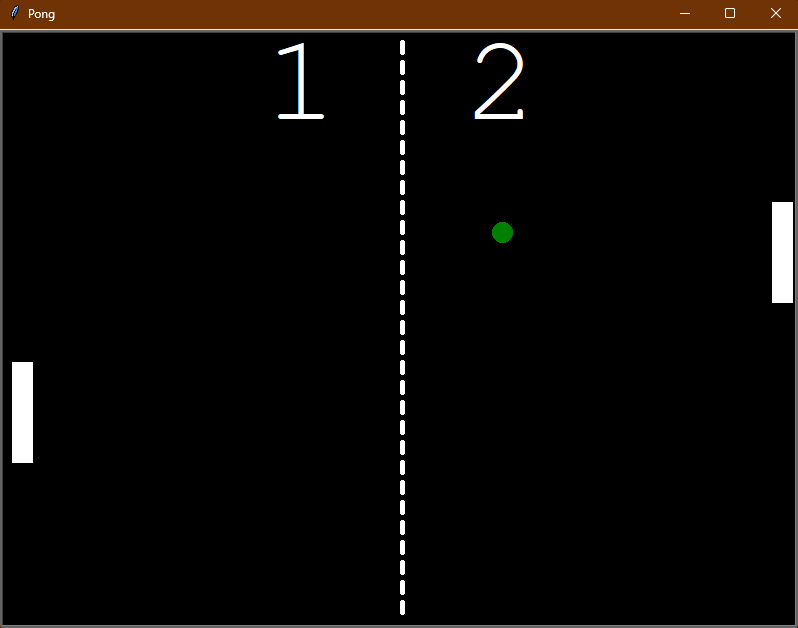
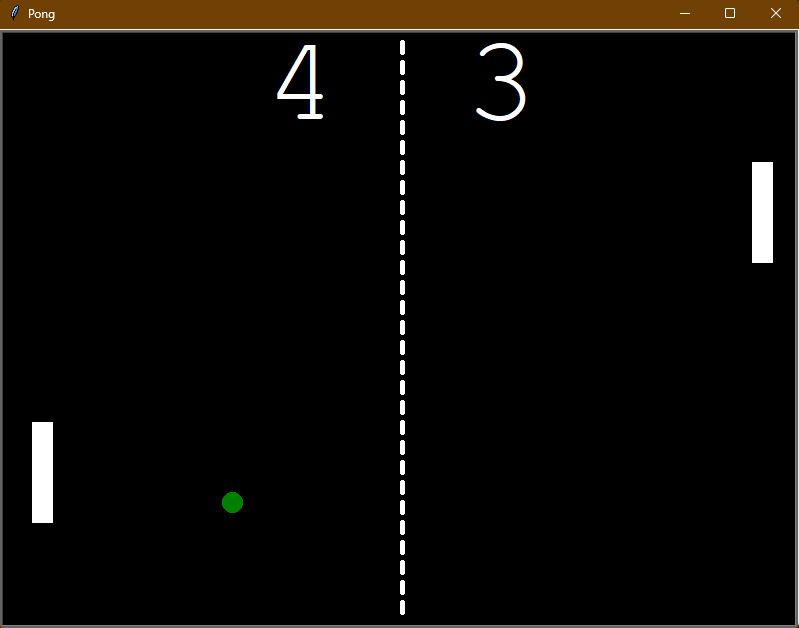
Detect collisions with top and bottom of paddles

diff --git a/main.py b/main.py
@@ -57,15 +57,31 @@ while True:
     if ball.ycor() > parameters.TOP_BOUNDARY - parameters.BALL_SIZE or ball.ycor() < parameters.BOTTOM_BOUNDARY + parameters.BALL_SIZE:
         ball.bounce_y()
 
-    # Detect collision between ball and right paddle
+    # Detect collision between ball and right paddle's side
     if ball.distance(
             right_paddle) <= parameters.BALL_SIZE * (parameters.PADDLE_SIZE - 1) and abs(ball.xcor() - right_paddle.xcor()) == parameters.BALL_SIZE and ball.xcor() < right_paddle.xcor():
         ball.bounce_x()
 
-    # Detect collision between ball and left paddle
+    # Detect collision between ball and right paddle's top
+    if ball.xcor() == right_paddle.xcor() and ball.ycor() == right_paddle.ycor() + parameters.BALL_SIZE * (round(parameters.PADDLE_SIZE / 2) + 1) and ball.y_move < 0:
+        ball.bounce_y()
+
+    # Detect collision between ball and right paddle's bottom
+    if ball.xcor() == right_paddle.xcor() and ball.ycor() == right_paddle.ycor() - parameters.BALL_SIZE * (round(parameters.PADDLE_SIZE / 2) + 1) and ball.y_move > 0:
+        ball.bounce_y()
+
+    # Detect collision between ball and left paddle's side
     if ball.distance(
             left_paddle) <= parameters.BALL_SIZE * (parameters.PADDLE_SIZE - 1) and abs(ball.xcor() - left_paddle.xcor()) == parameters.BALL_SIZE and ball.xcor() > left_paddle.xcor():
         ball.bounce_x()
+
+    # Detect collision between ball and left paddle's top
+    if ball.xcor() == left_paddle.xcor() and ball.ycor() == left_paddle.ycor() + parameters.BALL_SIZE * (round(parameters.PADDLE_SIZE / 2) + 1) and ball.y_move < 0:
+        ball.bounce_y()
+
+    # Detect collision between ball and left paddle's bottom
+    if ball.xcor() == left_paddle.xcor() and ball.ycor() == left_paddle.ycor() - parameters.BALL_SIZE * (round(parameters.PADDLE_SIZE / 2) + 1) and ball.y_move > 0:
+        ball.bounce_y()
 
     # Detect miss by right paddle
     if ball.xcor() > parameters.RIGHT_BOUNDARY:

diff --git a/ball.py b/ball.py
@@ -1,4 +1,4 @@
-import random
+from random import choice
 from turtle import Turtle
 
 import parameters
@@ -10,9 +10,9 @@ class Ball(Turtle):
         self.shape('circle')
         self.color('green')
         self.penup()
-        self.x_move = random.choice(
+        self.x_move = choice(
             [-parameters.BALL_SPEED, parameters.BALL_SPEED])
-        self.y_move = random.choice(
+        self.y_move = choice(
             [-parameters.BALL_SPEED, parameters.BALL_SPEED])
 
     def move(self):
@@ -29,5 +29,5 @@ class Ball(Turtle):
     def restart(self):
         self.goto(0, 0)
         self.bounce_x()
-        self.y_move = random.choice(
+        self.y_move = choice(
             [-parameters.BALL_SPEED, parameters.BALL_SPEED])

diff --git a/paddle.py b/paddle.py
@@ -12,9 +12,9 @@ class Paddle(Turtle):
         self.color('white')
         self.penup()
         if self.side == 'left':
-            self.goto(parameters.LEFT_BOUNDARY + parameters.BALL_SIZE, 0)
-        else:
-            self.goto(parameters.RIGHT_BOUNDARY - parameters.BALL_SIZE, 0)
+            self.goto(parameters.LEFT_BOUNDARY + parameters.BALL_SIZE * 2, 0)
+        if self.side == 'right':
+            self.goto(parameters.RIGHT_BOUNDARY - parameters.BALL_SIZE * 2, 0)
 
     def up(self):
         new_y = self.ycor() + 20

diff --git a/parameters.py b/parameters.py
@@ -6,7 +6,7 @@ LEFT_BOUNDARY = -(WIDTH / 2)
 RIGHT_BOUNDARY = WIDTH / 2
 BALL_SPEED = 10
 BALL_SIZE = 20
-PADDLE_SIZE = 5
+PADDLE_SIZE = 5  # Should be odd
 TOPRIGHT_HEADING = 45
 TOPLEFT_HEADING = 135
 BOTTOMLEFT_HEADING = 225
